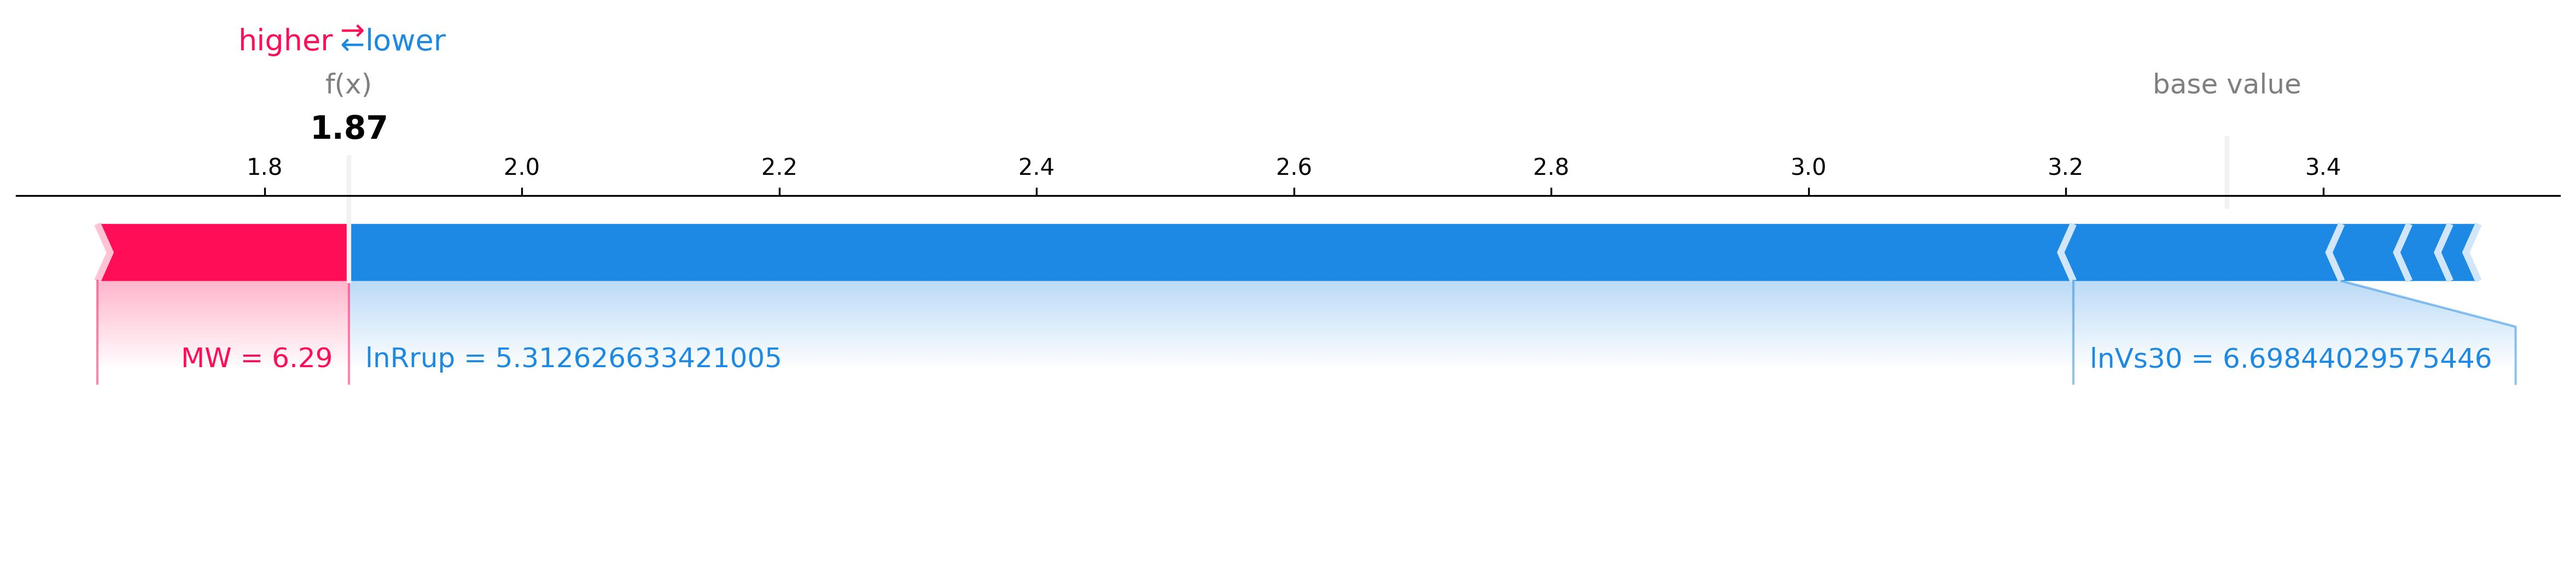
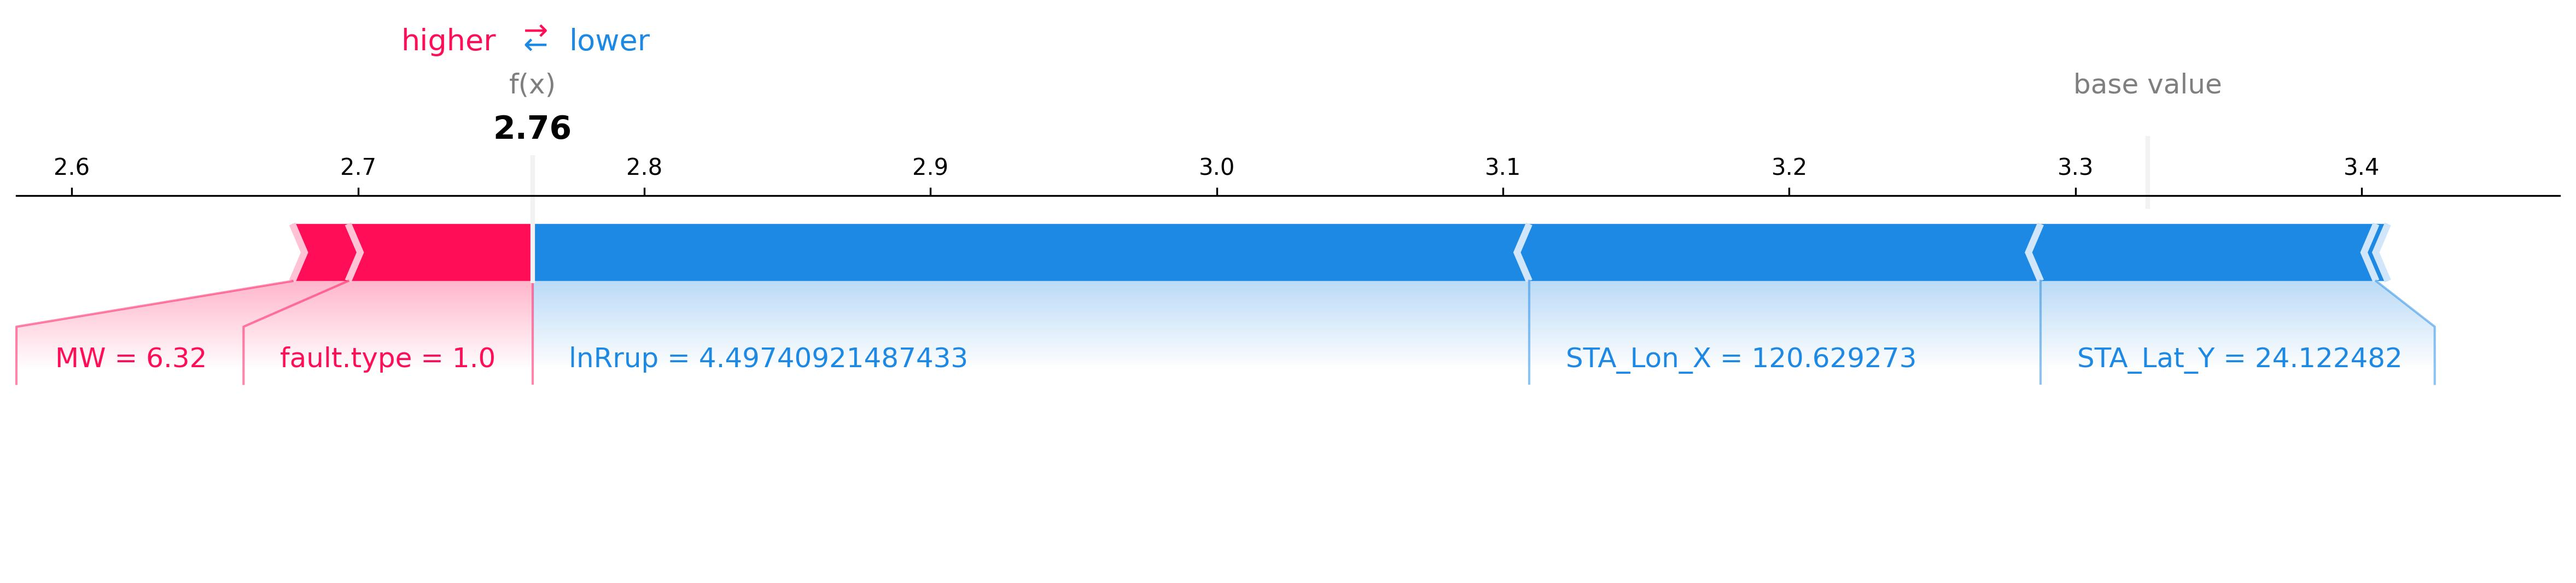
merge SHAP to plot_figure

diff --git a/machine_learning/design_pattern/plot_figure.py b/machine_learning/design_pattern/plot_figure.py
@@ -9,11 +9,12 @@ from sklearn.model_selection import train_test_split
 from sklearn.linear_model import LinearRegression
 from sklearn.preprocessing import PolynomialFeatures
 import sys
+import os
+import shap
 # append the path of the
 # parent directory
 sys.path.append("..")
 from design_pattern.process_train import dataprocess
-
 
 class plot_fig:
 
@@ -788,6 +789,66 @@ class plot_fig:
             f'../{self.abbreviation_name}/Distance Scaling/{f"{self.target} Mw={Mw} faulttype={faulttype} Vs30={Vs30}"} Distance Scaling.jpg',
             dpi=300)
         plt.show()
+
+    def explainable(
+            self,
+            x_test: "ori_test_feature",
+            ML_model,
+            seed
+            ):
+        df = pd.DataFrame(
+            x_test,
+            columns=['lnVs30', 'MW', 'lnRrup', 'fault.type', 'STA_Lon_X', 'STA_Lat_Y'])
+        explainer = shap.Explainer(ML_model)
+        shap_values = explainer(df)
+
+        #! Global Explainable
+        # summary
+        shap.summary_plot(shap_values, df, show=False)
+        plt.savefig("summary_plot.jpg", bbox_inches='tight', dpi=300)
+        
+        # bar plot
+        fig = plt.figure()
+        shap.plots.bar(shap_values, show=False)
+        plt.rcParams['figure.facecolor'] = 'white'
+        plt.rcParams['axes.facecolor'] = 'white'
+        plt.savefig("shap_bar.jpg", bbox_inches='tight', dpi=300)
+
+        # scatter plot
+        fig = plt.figure()
+        shap.plots.scatter(shap_values[:, "MW"],
+                        color=shap_values[:, "lnRrup"],
+                        show=False)
+        plt.rcParams['figure.facecolor'] = 'white'
+        plt.rcParams['axes.facecolor'] = 'white'
+        plt.savefig("shap_scatter_MW_lnRrup.jpg", bbox_inches='tight', dpi=300)
+        
+        fig = plt.figure()
+        shap.plots.scatter(shap_values[:, "lnRrup"],
+                        color=shap_values[:, "MW"],
+                        show=False)
+        plt.rcParams['figure.facecolor'] = 'white'
+        plt.rcParams['axes.facecolor'] = 'white'
+        plt.savefig("shap_scatter_lnRrup_MW.jpg", bbox_inches='tight', dpi=300)
+
+        #! Local Explainable
+        # waterfall
+        fig = plt.figure()
+        shap.plots.waterfall(shap_values[seed], show=False)  # 單筆資料解釋:第seed筆資料解釋
+        plt.rcParams['figure.facecolor'] = 'white'
+        plt.rcParams['axes.facecolor'] = 'white'
+        plt.savefig("shap_waterfall.jpg", bbox_inches='tight', dpi=300)
+
+        # force plot
+        shap.initjs()
+        shap.force_plot(explainer.expected_value, shap_values.values[seed, :],
+                        df.iloc[seed, :], show=False,matplotlib=True)
+        plt.savefig("force_plot.jpg", bbox_inches='tight', dpi=300)
+        
+        # 強制刷新緩存
+        fig.canvas.draw()
+        
+
 
 
 if __name__ == '__main__':

diff --git a/machine_learning/XGB/XGB_TSMIP.py b/machine_learning/XGB/XGB_TSMIP.py
@@ -16,9 +16,9 @@ TSMIP_smogn_df = pd.read_csv(f"../../../TSMIP_smogn_{target}.csv")
 TSMIP_df = pd.read_csv(f"../../../TSMIP_FF_{target}.csv")
 DSCon = pd.read_csv(f"../../../Distance Scaling Condition.csv")
 model = dataprocess()
-after_process_SMOGN_data = model.preprocess(TSMIP_smogn_df, target,False)
-after_process_ori_data = model.preprocess(TSMIP_df, target,True)
-after_process_DSCon = model.preprocess(DSCon, target,False)
+after_process_SMOGN_data = model.preprocess(TSMIP_smogn_df, target, False)
+after_process_ori_data = model.preprocess(TSMIP_df, target, True)
+after_process_DSCon = model.preprocess(DSCon, target, False)
 
 result_SMOGN = model.split_dataset(after_process_SMOGN_data,
                                    f'ln{target}(gal)', True, 'lnVs30', 'MW',
@@ -54,43 +54,5 @@ plot_something = plot_fig("XGBooster", "XGB", "SMOGN", target)
 #     faulttype = DSCon['fault.type'][i]
 #     plot_something.distance_scaling(i, ML_model, DSCon_data, Vs30, Mw, faulttype,
 #                                     score)
-
-# df = pd.DataFrame(
-#     result_ori[1],
-#     columns=['lnVs30', 'MW', 'lnRrup', 'fault.type', 'STA_Lon_X', 'STA_Lat_Y'])
-# explainer = shap.Explainer(ML_model)
-# shap_values = explainer(df)
-# shap.summary_plot(shap_values, df, show=False)
-# plt.savefig("summary_plot.jpg", bbox_inches='tight', dpi=300)
-
-# # waterfall
-# shap.plots.waterfall(shap_values[0], show=False)  # 單筆資料解釋:第1筆資料解釋
-# plt.rcParams['figure.facecolor'] = 'white'
-# plt.rcParams['axes.facecolor'] = 'white'
-# plt.savefig("shap_waterfall.jpg", bbox_inches='tight', dpi=300)
-# # force plot
-# shap.initjs()
-# shap.force_plot(explainer.expected_value, shap_values.values[0, :],
-#                 df.iloc[0, :], show=False,matplotlib=True)
-# plt.savefig("force_plot.jpg", bbox_inches='tight', dpi=300)
-
-# # bar plot
-# fig = plt.figure()
-# shap.plots.bar(shap_values, show=False)
-# plt.rcParams['figure.facecolor'] = 'white'
-# plt.rcParams['axes.facecolor'] = 'white'
-# plt.savefig("shap_bar.jpg", bbox_inches='tight', dpi=300)
-# # scatter plot
-# shap.plots.scatter(shap_values[:, "MW"],
-#                    color=shap_values[:, "lnRrup"],
-#                    show=False)
-# plt.rcParams['figure.facecolor'] = 'white'
-# plt.rcParams['axes.facecolor'] = 'white'
-# plt.savefig("shap_scatter.jpg", bbox_inches='tight', dpi=300)
-
-# shap.plots.scatter(shap_values[:, "lnRrup"],
-#                    color=shap_values[:, "MW"],
-#                    show=False)
-# plt.rcParams['figure.facecolor'] = 'white'
-# plt.rcParams['axes.facecolor'] = 'white'
-# plt.savefig("shap_scatte.jpg", bbox_inches='tight', dpi=300)
+seed = 555
+plot_something.explainable(result_ori[1], ML_model, seed)
